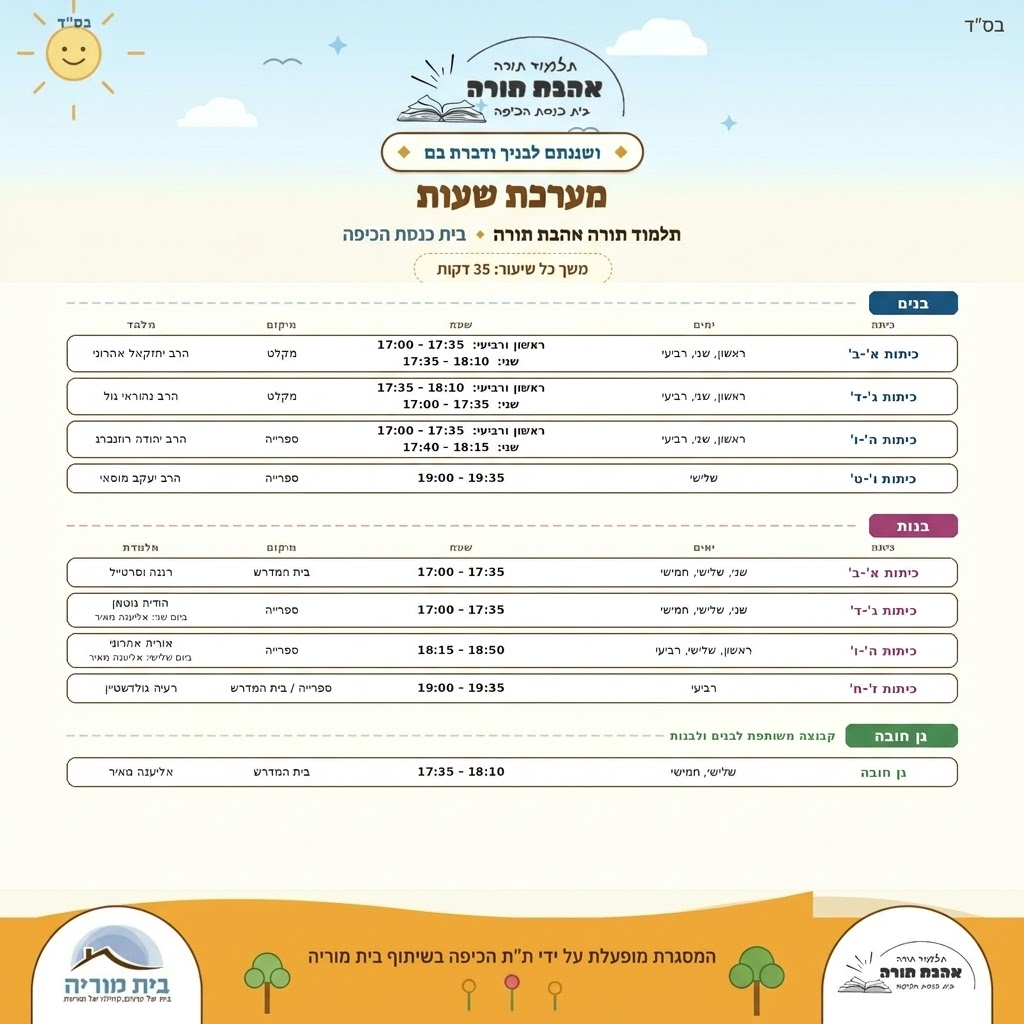
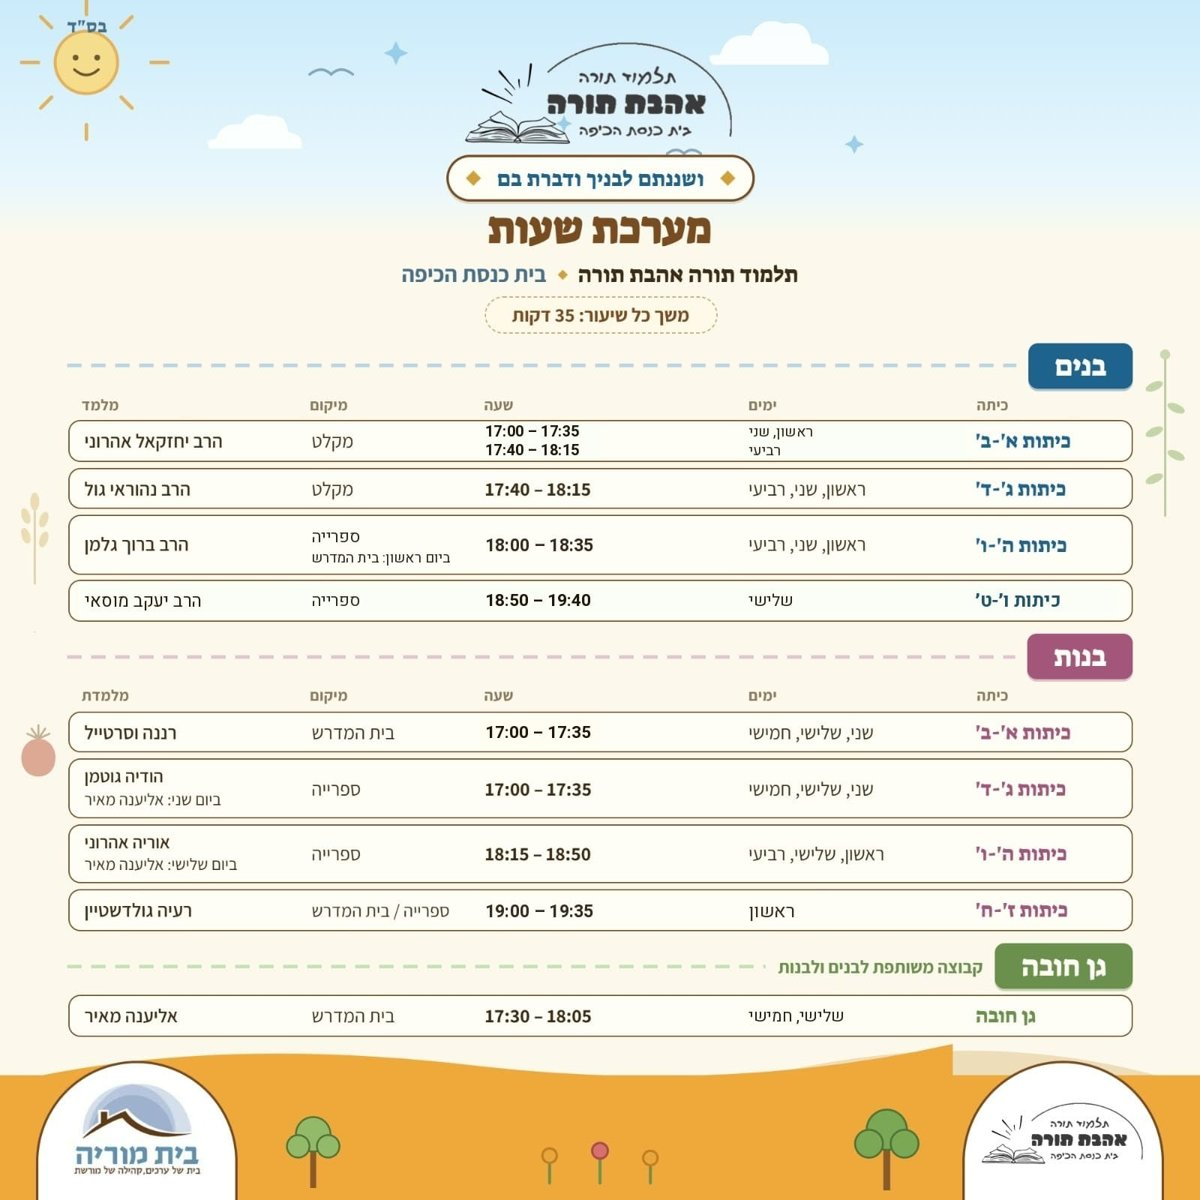
Talmud Torah schedule from the new poster; landline + WhatsApp bot line in contact, footer and JSON-LD

diff --git a/index.html b/index.html
@@ -33,7 +33,7 @@
  "logo": "https://hakipabs.org/images/apple-touch-icon.png",
  "image": "https://hakipabs.org/images/campaign/exterior.jpg",
  "email": "vaad@hakipabs.org",
- "telephone": "+972-52-569-7091",
+ "telephone": "+972-8-860-9056",
  "taxID": "580029825",
  "address": {
   "@type": "PostalAddress",
@@ -536,10 +536,10 @@ footer a{color:var(--navy)}
           <table class="tt">
 <thead><tr><th>כיתות</th><th>ימים</th><th>שעה</th><th>מקום</th><th>מלמד</th></tr></thead>
 <tbody>
-<tr><td data-label="כיתות">א'-ב'<a class="wa" href="https://chat.whatsapp.com/CE1UWOsIx9tHPqEK6roKhv" target="_blank" rel="noopener">הרשמה בוואטסאפ</a></td><td data-label="ימים">א', ב', ד'</td><td data-label="שעה" class="time">א', ד': 17:00-17:35 · ב': 17:35-18:10</td><td data-label="מקום">מקלט</td><td data-label="מלמד">הרב יחזקאל אהרוני</td></tr>
-<tr><td data-label="כיתות">ג'-ד'<a class="wa" href="https://chat.whatsapp.com/Cwxfg1nVBqYFuvcqINYKAo" target="_blank" rel="noopener">הרשמה בוואטסאפ</a></td><td data-label="ימים">א', ב', ד'</td><td data-label="שעה" class="time">א', ד': 17:35-18:10 · ב': 17:00-17:35</td><td data-label="מקום">מקלט</td><td data-label="מלמד">הרב נהוראי גול</td></tr>
-<tr><td data-label="כיתות">ה'-ו'<a class="wa" href="https://chat.whatsapp.com/Be24W250fcC4q8bNYC1qxR" target="_blank" rel="noopener">הרשמה בוואטסאפ</a></td><td data-label="ימים">א', ב', ד'</td><td data-label="שעה" class="time">א', ד': 17:00-17:35 · ב': 17:40-18:15</td><td data-label="מקום">ספרייה</td><td data-label="מלמד">הרב יהודה רוזנברג</td></tr>
-<tr><td data-label="כיתות">ז'-ט'</td><td data-label="ימים">ג'</td><td data-label="שעה" class="time">19:00-19:35</td><td data-label="מקום">ספרייה</td><td data-label="מלמד">הרב יעקב מוסאי</td></tr>
+<tr><td data-label="כיתות">א'-ב'<a class="wa" href="https://chat.whatsapp.com/CE1UWOsIx9tHPqEK6roKhv" target="_blank" rel="noopener">הרשמה בוואטסאפ</a></td><td data-label="ימים">א', ב', ד'</td><td data-label="שעה" class="time">א', ב': 17:00-17:35 · ד': 17:40-18:15</td><td data-label="מקום">מקלט</td><td data-label="מלמד">הרב יחזקאל אהרוני</td></tr>
+<tr><td data-label="כיתות">ג'-ד'<a class="wa" href="https://chat.whatsapp.com/Cwxfg1nVBqYFuvcqINYKAo" target="_blank" rel="noopener">הרשמה בוואטסאפ</a></td><td data-label="ימים">א', ב', ד'</td><td data-label="שעה" class="time">17:40-18:15</td><td data-label="מקום">מקלט</td><td data-label="מלמד">הרב נהוראי גול</td></tr>
+<tr><td data-label="כיתות">ה'-ו'<a class="wa" href="https://chat.whatsapp.com/Be24W250fcC4q8bNYC1qxR" target="_blank" rel="noopener">הרשמה בוואטסאפ</a></td><td data-label="ימים">א', ב', ד'</td><td data-label="שעה" class="time">18:00-18:35</td><td data-label="מקום">ספרייה (ביום ראשון: בית המדרש)</td><td data-label="מלמד">הרב ברוך גלמן</td></tr>
+<tr><td data-label="כיתות">ו'-ט'</td><td data-label="ימים">ג'</td><td data-label="שעה" class="time">18:50-19:40</td><td data-label="מקום">ספרייה</td><td data-label="מלמד">הרב יעקב מוסאי</td></tr>
 </tbody>
 </table>
         </div>
@@ -549,9 +549,9 @@ footer a{color:var(--navy)}
 <thead><tr><th>כיתות</th><th>ימים</th><th>שעה</th><th>מקום</th><th>מלמדת</th></tr></thead>
 <tbody>
 <tr><td data-label="כיתות">א'-ב'<a class="wa" href="https://chat.whatsapp.com/GL57BjD63C3LK2FwxFYNAY" target="_blank" rel="noopener">הרשמה בוואטסאפ</a></td><td data-label="ימים">ב', ג', ה'</td><td data-label="שעה" class="time">17:00-17:35</td><td data-label="מקום">בית המדרש</td><td data-label="מלמדת">רננה וסרטייל</td></tr>
-<tr><td data-label="כיתות">ג'-ד'<a class="wa" href="https://chat.whatsapp.com/HC7UtzUo3vD4H1lfj10fzT" target="_blank" rel="noopener">הרשמה בוואטסאפ</a></td><td data-label="ימים">ב', ג', ה'</td><td data-label="שעה" class="time">17:00-17:35</td><td data-label="מקום">ספרייה</td><td data-label="מלמדת">הודיה נוטמן (ביום שני: אליענה מאיר)</td></tr>
-<tr><td data-label="כיתות">ה'-ו'<a class="wa" href="https://chat.whatsapp.com/LPkZTxwjoGsLZFjb0aF1ER" target="_blank" rel="noopener">הרשמה בוואטסאפ</a></td><td data-label="ימים">א', ג', ד'</td><td data-label="שעה" class="time">18:15-18:50</td><td data-label="מקום">ספרייה</td><td data-label="מלמדת">אורית אהרוני (ביום שלישי: אליענה מאיר)</td></tr>
-<tr><td data-label="כיתות">ז'-ח'</td><td data-label="ימים">ד'</td><td data-label="שעה" class="time">19:00-19:35</td><td data-label="מקום">ספרייה / בית המדרש</td><td data-label="מלמדת">רעיה גולדשטיין</td></tr>
+<tr><td data-label="כיתות">ג'-ד'<a class="wa" href="https://chat.whatsapp.com/HC7UtzUo3vD4H1lfj10fzT" target="_blank" rel="noopener">הרשמה בוואטסאפ</a></td><td data-label="ימים">ב', ג', ה'</td><td data-label="שעה" class="time">17:00-17:35</td><td data-label="מקום">ספרייה</td><td data-label="מלמדת">הודיה גוטמן (ביום שני: אליענה מאיר)</td></tr>
+<tr><td data-label="כיתות">ה'-ו'<a class="wa" href="https://chat.whatsapp.com/LPkZTxwjoGsLZFjb0aF1ER" target="_blank" rel="noopener">הרשמה בוואטסאפ</a></td><td data-label="ימים">א', ג', ד'</td><td data-label="שעה" class="time">18:15-18:50</td><td data-label="מקום">ספרייה</td><td data-label="מלמדת">אוריה אהרוני (ביום שלישי: אליענה מאיר)</td></tr>
+<tr><td data-label="כיתות">ז'-ח'</td><td data-label="ימים">א'</td><td data-label="שעה" class="time">19:00-19:35</td><td data-label="מקום">ספרייה / בית המדרש</td><td data-label="מלמדת">רעיה גולדשטיין</td></tr>
 </tbody>
 </table>
         </div>
@@ -560,7 +560,7 @@ footer a{color:var(--navy)}
       <table class="tt">
 <thead><tr><th>כיתות</th><th>ימים</th><th>שעה</th><th>מקום</th><th>מלמדת</th></tr></thead>
 <tbody>
-<tr><td data-label="כיתות">גן חובה<a class="wa" href="https://chat.whatsapp.com/GC1obpqdzkACVYYLpaDEQa" target="_blank" rel="noopener">הרשמה בוואטסאפ</a></td><td data-label="ימים">ג', ה'</td><td data-label="שעה" class="time">17:35-18:10</td><td data-label="מקום">בית המדרש</td><td data-label="מלמדת">אליענה מאיר</td></tr>
+<tr><td data-label="כיתות">גן חובה<a class="wa" href="https://chat.whatsapp.com/GC1obpqdzkACVYYLpaDEQa" target="_blank" rel="noopener">הרשמה בוואטסאפ</a></td><td data-label="ימים">ג', ה'</td><td data-label="שעה" class="time">17:30-18:05</td><td data-label="מקום">בית המדרש</td><td data-label="מלמדת">אליענה מאיר</td></tr>
 </tbody>
 </table>
       <p class="note"><a href="images/talmud-torah-5787.jpg" target="_blank" rel="noopener">המערכת המלאה כתמונה</a></p>
@@ -644,6 +644,8 @@ footer a{color:var(--navy)}
       <div class="card">
         <h3>הוועד</h3>
         <p><a href="mailto:vaad@hakipabs.org">vaad@hakipabs.org</a></p>
+        <p>טלפון ו<a href="https://wa.me/97288609056" target="_blank" rel="noopener">וואטסאפ</a>: <a href="tel:+97288609056" dir="ltr">08-860-9056</a></p>
+        <p class="small muted">בוואטסאפ עונים אוטומטית על זמני תפילה, שיעורים, אירועים וספרים בספרייה. כתבו "תפריט".</p>
         <p class="small muted">זמנים ודף שבועי: <a href="mailto:hakipa.zmanim@gmail.com">hakipa.zmanim@gmail.com</a></p>
       </div>
       <div class="card">
@@ -663,7 +665,7 @@ footer a{color:var(--navy)}
     <div>
       <img src="images/logo-full.png" alt="בית הכנסת העל-עדתי, שכונה ה' לדוגמא, באר שבע (ע"ר), עמותה 58-002982-5, הצבי 22" style="max-width:220px;width:100%;height:auto;display:block;margin-bottom:10px;opacity:.85">
       קרוב לשישים שנה של תפילה, תורה וחסד בלב שכונה ה'.<br>
-      <span dir="ltr" style="display:inline-block;margin-top:6px">HaKipa Synagogue (Beit HaKnesset HaAl-Adati) · HaTsvi St 22, Be'er Sheva 8473349, Israel · Reg. nonprofit 58-002982-5</span>
+      <span dir="ltr" style="display:inline-block;margin-top:6px">HaKipa Synagogue (Beit HaKnesset HaAl-Adati) · HaTsvi St 22, Be'er Sheva 8473349, Israel · +972 8-860-9056 · Reg. nonprofit 58-002982-5</span>
     </div>
     <div>
       <a href="#tefila">זמני תפילה</a><br><a href="#shiurim">שיעורים</a><br><a href="divrei-torah.html">דבר תורה קהילתי</a><br><a href="#kids">ילדים ונוער</a><br><a href="#talmud-torah">תלמוד תורה</a>
